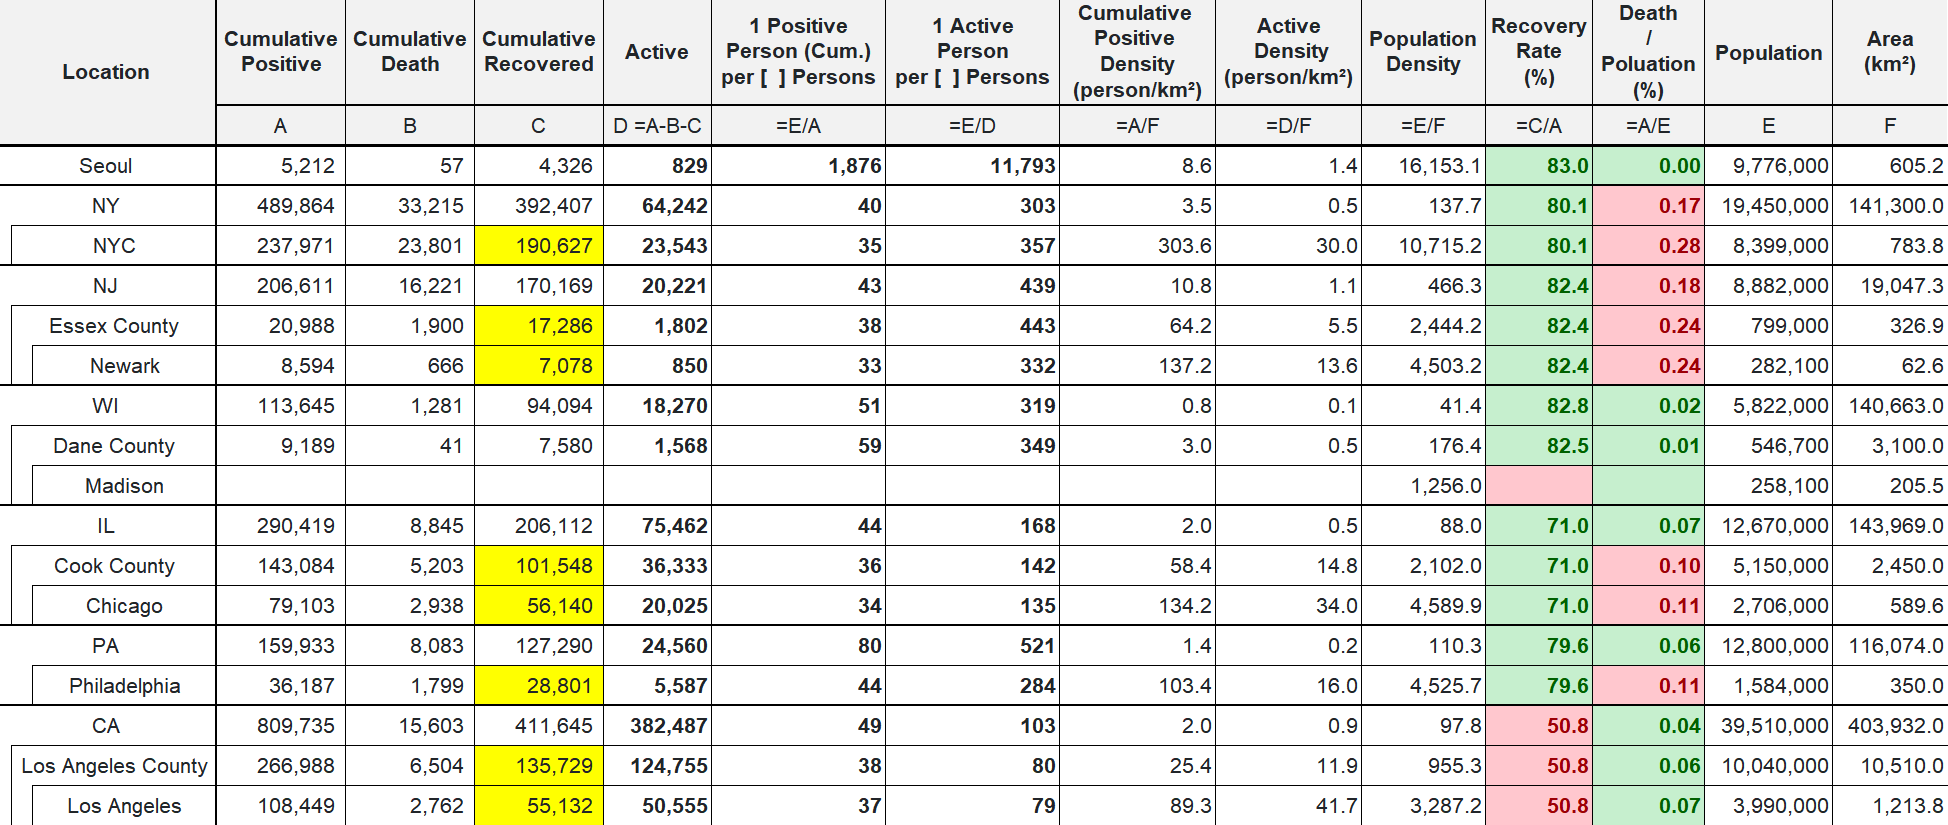
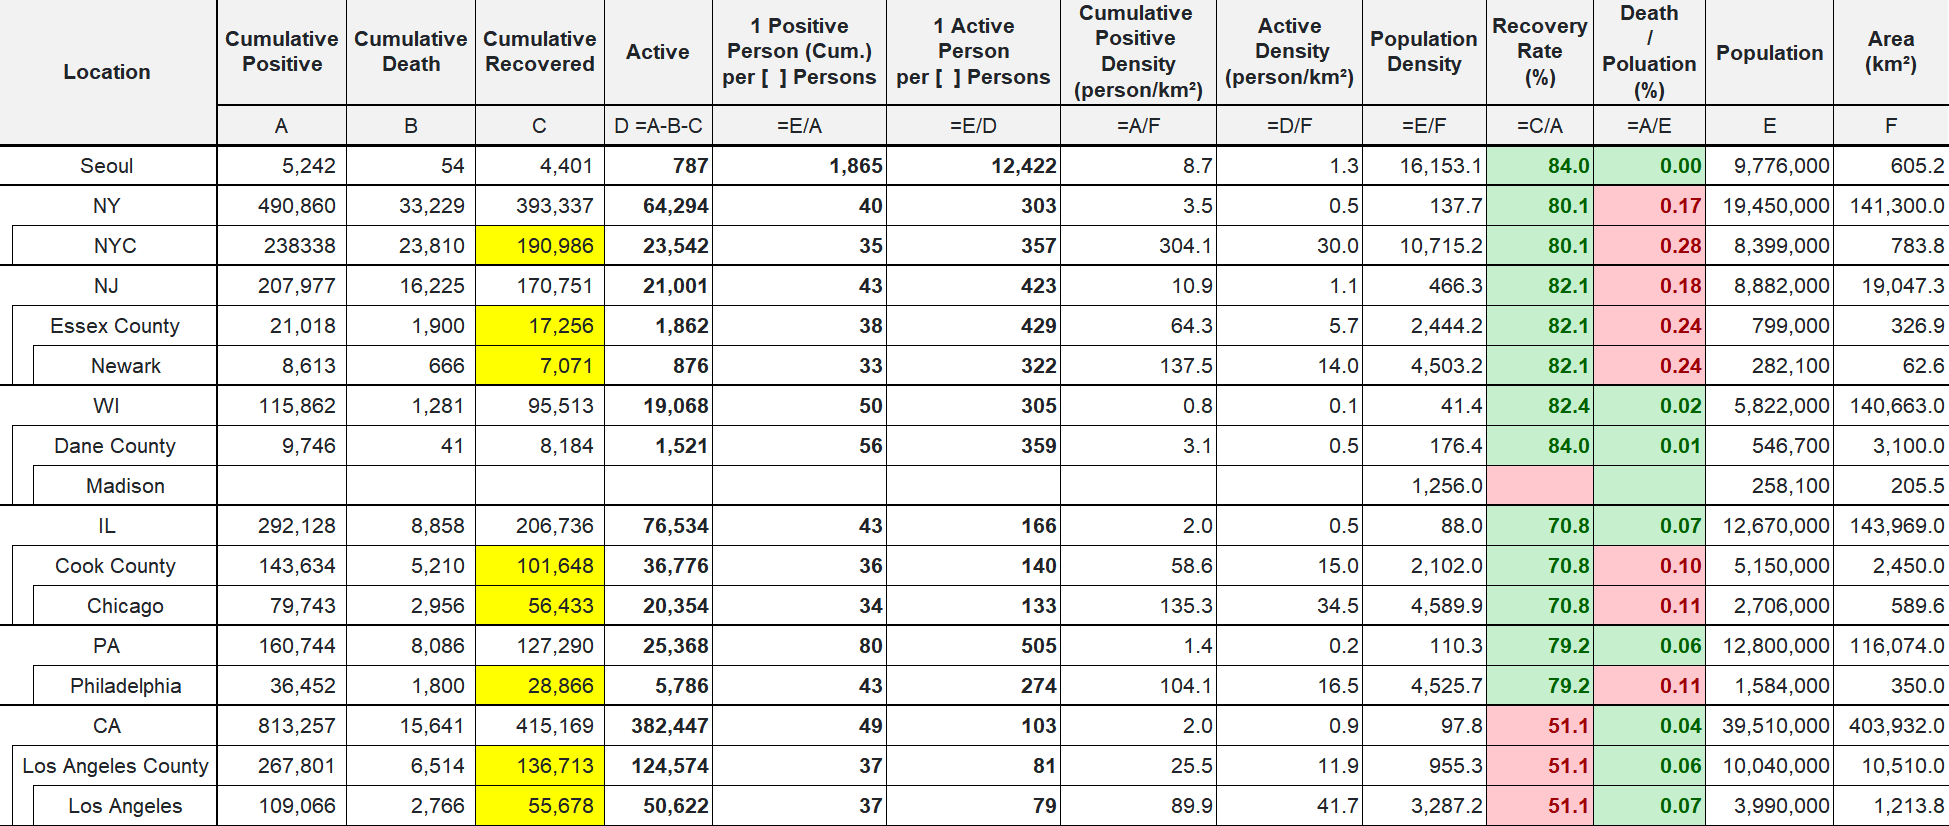
update 9/28 status

diff --git a/index.html b/index.html
@@ -19,7 +19,7 @@
 
 <body class="container-fluid">
 	<h1> CoronaV for Friends</h1>
-	<h2> Data updated at Sep 27 2020 EST 19:40</h2>
+	<h2> Data updated at Sep 28 2020 EST 22:35</h2>
 	<hr>
 	<main>
 		<div class="row">
